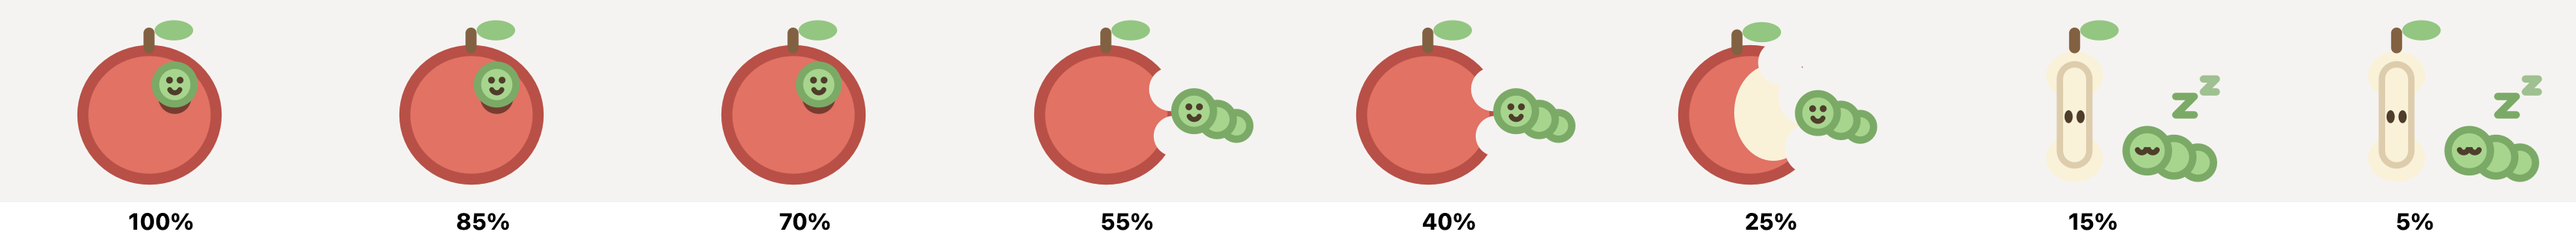
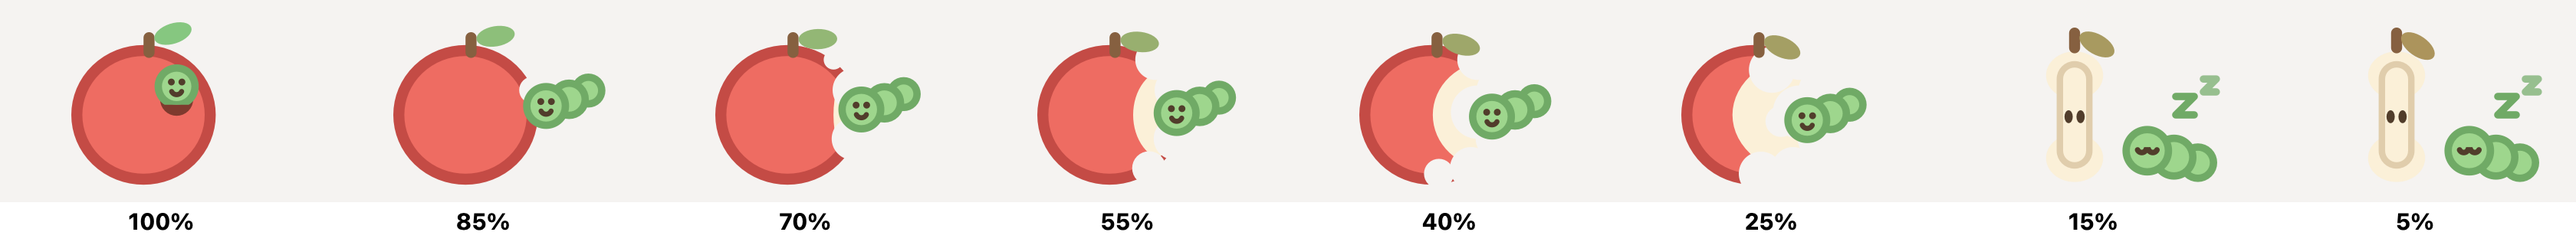
publish: 2026-09-04 기준 스냅샷

diff --git a/프로젝트/개인/Zappy/Zappy 개발 기록 2026-09-04.md b/프로젝트/개인/Zappy/Zappy 개발 기록 2026-09-04.md
@@ -1,0 +1,62 @@
+---
+type: worklog
+project: "[[프로젝트/개인/Zappy/README|Zappy]]"
+created: 2026-09-04
+updated: 2026-09-04
+---
+
+# Zappy 개발 기록 2026-09-04 — 기존 테마 4종 다듬기 (1.14.0)
+
+## 배경
+
+홍 "Zappy를 오랜만에 업데이트를 할까" → 위키·`asc state` 확인: **1.13.0은 이미 READY_FOR_SALE**(위키는 09-01 WAITING으로 멈춰 있었음 — 네 번째 반복: 제출 후 상태는 추측 말고 조회). 로드맵의 다음 항목은 할로윈 시즌 테마였으나 홍 "할로윈은 10월부터, 쪼금 기존거를 다듬고 싶어 — 날씨·선인장·사과·해파리. 굳이 표정 없어도 되는 건 없애고, 동작을 더 귀엽게·신박하게·선택하고 싶게". 네 테마 모두 Zappy+ 모션 테마라 "선택하고 싶게" = 전환 가치.
+
+## 결정
+
+### 얼굴은 캐릭터에만 — 소품·날씨엔 없다
+- **날씨**: 해·구름 둘 다 얼굴이 있어 캐릭터가 둘이었다. **얼굴은 해에만** 남기고 구름은 날씨(상태)로. 나무가 계절로 상태를 나르는 것과 같은 논리. 해는 늘 웃고, 시무룩함은 구름과 비가 맡는다.
+- **사과**: 이미 얼굴은 애벌레뿐 — 구조 유지.
+- **선인장**: 몸통이 초록 알약이라 얼굴 없으면 정체가 안 읽힘 — 유지.
+- **해파리**: 부양 높이·촉수·맥동·발광만으로 상태가 읽히는 유일한 테마라 실험 대상. 눈만 / 없음 / 기존 세 판을 렌더해 비교(`jellyFace` 전역 스위치) — **눈만 남긴 판을 채택**(홍 "알아서 해줘"). 얼굴 없는 판은 모노에서 버섯으로 읽혔다. 시들면 눈이 반쯤 감긴다(아래로 볼록한 호).
+
+### 사과 — "배터리를 쓰는 만큼 계속 갉아먹는다" (홍 요청: 단계를 더 늘려줘)
+- 90% 위: 온전한 사과, 구멍에서 **쏙 들어갔다 빼꼼**(4페이즈, 페이즈 0 = 나온 자세 — 정지 미리보기가 이 프레임). 클립 rect로 구멍 아래는 안 보인다.
+- 90%→20%: `AppleGeom.biteSlots` 8개가 순서대로 나타난다(자국 하나 = 8.75%). 마지막 자국은 잔량이 줄수록 커지고(0.45→1.0), **머리가 파고드는 박자에 0.8~1.0으로 벌어진다**("먹는 중"). 속살(cream)은 베어문 옆구리에서 안쪽으로 자라는 타원을 몸통에 클립해 그리고, 자국이 그 위를 뚫어 언저리에만 남는다.
+  - 처음엔 애벌레 머리를 마지막 자국 위치에 뒀는데 **윗자국(꼭지 옆)을 먹을 때 잎과 겹쳤다** → 머리는 오른쪽 옆구리에 붙어 `eaten`만큼 안쪽으로 파고드는 고정 궤적(`hx = 24.6 − 3.4·eaten`)으로.
+  - 처음엔 속살 타원을 알파로 페이드했더니 **안 베어문 껍질 위에 창백한 얼룩**으로 보였다 → 성장 타원 + 몸통 클립.
+- 입: 머리가 사과에 닿는 페이즈에 벌어진 타원, 나머지는 방긋(`mouthOpen`).
+- 20% 아래: 사과심 + 배부른 애벌레, zzz가 떠오르며 옅어진다(`shouldAnimate` 사과는 이제 잔량 무관 true).
+- 잎: 꼭지 밑동을 축으로 +18°→−38° 처지고 초록→갈색(`leafAngle`, `tiltedOval`).
+- **충전 씬이 아예 없었다** (홍 "사과일 때 충전 중일 때가 쪼금 아쉬운 것 같아" → 코드가 `charging`을 안 봄). 신설: **고치** — 사과 위 꼭지 왼쪽(잎은 오른쪽)에 세로 타원 + 실 두 줄 + 감은 눈, zzz 떠오름. **100% + 전원 = 나비**(분홍 날개 두 쌍, 반 주기마다 접었다 폄). 사과심 상태면 바닥 오른쪽. 충전 중 구멍은 안 그린다 — 빈 구멍만 남으면 검은 점으로 보였다. 첫 배치(y 17.8)는 캔버스 위에 닿아 17.0으로 내려 사과에 걸터앉게.
+
+### 날씨 — 구름이 잔량의 연속 함수로 해를 가린다 (`WeatherGeom`)
+- `cover = (0.95 − t)/0.70`, `approach = cover^1.5`(멀리선 천천히, 닿고 나서 빨리 — 40%에 오른쪽 눈 하나가 남는 배치). 100% 없음 → 85% 저 멀리 옅은 구름 한 점(`cloudAlpha`) → 55% 닿음 → 40% 눈 하나 → 25% 다 가림(`sunVisible = cover < 0.999`) → 20% 아래 비.
+- 구름을 어떻게 해보다 크게 만드나 — 세 번 시도: ① 캔버스 밖에서 밀고 들어오기 → **잘린 반쪽 구름**이 버그처럼 보임. ② 밑동을 두껍게(`belly`) → **컵케이크**. ③ 꼭대기 고정 세로 늘리기(`stretch`) → **탑**. 채택: **구름은 제 모양을 지키고(최대 1.3배) 해가 덮임 60%부터 5.6→4.2로 작아진다(멀어짐)**. 왼쪽 끝은 항상 캔버스 안(0.3+)에서 시작해 잘리지 않는다.
+- 상시 모션: 광선 회전(기존) + 구름 떠다님 ±0.35 + 빗줄기. `shouldAnimate` 날씨는 잔량 무관 true.
+- 충전: 먹구름 + **번개가 실제로 친다** — 페이즈 0·2에만 자리를 바꿔 그리고 1·3은 먹구름만(번쩍임). 충전 모션 예외에 등록. 1.6~1.13은 충전 정지 규칙 때문에 번개가 한 자리에 고정돼 있었다(홍 "번개가 친다던지"로 발견). 먹구름 뒤 오른쪽 위에 작은 해(r 3.3)가 빼꼼 — iconScale 1.1이라 광선 끝 ≤ 21 유지.
+- 모노: 구름 knockout 테두리(1.12배)를 먼저 뚫어 해·광선과 분리. 광선은 `rayAlpha`로 사그라든다.
+
+### 선인장 — 팔·벌·봉오리·물방울
+- `CactusGeom`에 `phase`·`charging` 추가(기본값 있는 `var` — `let`이면 memberwise init에서 빠져 컴파일 에러). 꽃 피면 `armWave`로 양팔이 엇갈려 살랑(±0.4), 벌은 `(27.0, 15.8)` 타원 궤도(4페이즈 = 한 바퀴) + 몸집 3.8×2.2·날개 2장·눈. 봉오리는 `bud`가 amp에 따라 0.6 부푼다. `shouldAnimate` ≥40.
+- 충전: 물뿌리개 물방울이 떨어진다 — 간격 2.6 = 페이즈 이동 0.65×4라 이음새 없이 순환. 충전 모션 예외 등록.
+
+### 해파리 — 실제 추진 리듬
+- 수축(`pulse`)하면 갓이 좁고 길어지며 `bellBottom`이 0.6 오르고, 이완하면 퍼지며 내려온다. 촉수는 `phaseAmp(phase + 1)`로 반박자 늦게 살랑이고 수축 때 6% 더 늘어진다. 발광은 수축에 맞춰 밝아진다(`glowAlpha`).
+- 꼭대기 한계: 만땅·수축에서 ≈21.5 — 처음 계수(8.8·0.9·1.09)로는 22.6이 되어 잘렸다 → 8.4·0.6·1.06.
+- 충전: 공기방울이 올라간다(간격 3.6 = 0.9×4). 충전 모션 예외 등록.
+
+## 검증
+- 렌더 하네스(스크래치에 `generate.swift` 축약 + **4페이즈 스트립** `phaseStrip`) → 눈으로 확인 → 수정 반복 6회. Xcode Debug 빌드 3회 성공(앱+위젯). `package-app.sh` 로컬 실행으로 메뉴바 표시 확인.
+- 테스트 인스턴스를 `-theme 사과 -forceLevel 60`으로 띄운 채 홍이 메뉴에서 테마를 골랐더니 안 바뀜 — argument domain이 저장 설정보다 우선. `-devFullAccess YES`만 붙여 재실행 → 정상. ([[작업노트/Apple/AppKit 오프스크린 렌더와 argument domain]] 09-04 항목)
+- `docs/theme-reference` 재생성: 생성기가 전 테마를 다시 쓰면 **손대지 않은 테마 파일도 바이트가 바뀐다**(PNG/GIF 인코더 노이즈) → 네 테마 + 새로 생긴 풍선 6장(빠져 있었음) + `apple-full-charging`만 남기고 `git checkout`. 충전 GIF는 날씨도 풍선처럼 4페이즈 순서대로.
+- 랜딩 카드 4장 재생성(420×264 투명, 85% 컬러). `lockFocus`는 Retina에서 840×528로 구워져 `NSBitmapImageRep`에 직접 그려 1x로.
+
+## 1.14.0 (build 24)
+- pbxproj 4곳 + `package-app.sh`. What's New 5개 언어(이모지 없음). 설명문 날씨 한 줄("잔량이 줄수록 구름이 해를 가려요") 5개 언어.
+- 커밋: `6cda9c7 feat: 사과 연속 갉아먹기·날씨 구름 가림(얼굴은 해에만)·선인장 팔 흔들기·해파리 추진 리듬, 1.14.0 (build 24)` · `45a171a feat: 충전 중 번개 번쩍임 + 애벌레 옴뇸뇸` · `e4a2b1b feat: 사과 충전 씬 — 고치에서 쿨쿨, 완충이면 나비`
+- 제출 결과: [[프로젝트/개인/Zappy/App Store 심사 이력|심사 이력]] 09-04 행.
+
+## 계획 표와의 관계
+계획는 Zappy를 "1.7.0으로 마무리, 버그 대응만"으로 두고 있고 09-02 회고가 "마무리 선언한 Zappy가 작업량 2위"라고 짚었다. 오늘 작업은 홍이 직접 고른 것이고 에이전트 주도 반나절이라 자투리 틀 안이지만, 표 문구와는 계속 어긋난다 — 표를 "시즌 테마 연 5회 + 홍이 고른 다듬기"로 고칠지는 홍의 결정으로 남긴다.
+
+배운 것: [[작업노트/Apple/AppKit 오프스크린 렌더와 argument domain|AppKit 오프스크린 렌더와 argument domain]] (1x 비트맵 렌더 · `-theme` 인자가 메뉴 선택을 덮음 · 레퍼런스 재생성 노이즈)

diff --git a/프로젝트/개인/한능검/AI 예상 모의고사 2026-09-04.md b/프로젝트/개인/한능검/AI 예상 모의고사 2026-09-04.md
@@ -22,7 +22,15 @@ updated: 2026-09-04
 - `Mock.tsx`: **앱 에디션·심화에서만** "제80회 AI 예상 · 2026.10.17" 섹션(예상 1~5회). 웹 체험판엔 안 보인다(유료 앱의 이유).
 - **리뷰 요청**: `src/review.ts` `noteGoodMoment()` — 모의고사 60점 이상 완주가 **두 번째** 쌓일 때, 버전당 1회, `SceneDelegate` `ReviewSink`(`hangeomReview` 핸들러)가 `AppStore.requestReview(in:)`(iOS 16+, 이전은 `SKStoreReviewController`). 틀린 문제 화면·온보딩에서는 안 부른다.
 
-## 진행
+## 진행 (2026-09-04, 착수 ~ 제출까지 약 13시간)
 
-- 09-04 01시: 슬롯·재료·검증기·SPEC 작성, 생성 에이전트 5개 착수. 앱 코드(Mock 섹션·리뷰 브리지·내보내기) 반영, `tsc` 통과.
-- (이하 생성·검증 결과는 완료 후 추가)
+- **생성**: 5세트 × 60문항(본 50 + 예비 10) = 300문항, skipped 0. 에이전트당 55~62만 토큰·25~28분. 기계 검증기가 기출 12자 복제를 세트당 25~30건씩 잡아 전부 재작성됐다.
+- **블라인드 풀이**: 5세트 × 60 = 300문항, 생성 정답과 **불일치 0**. 풀이자가 low로 표시한 2건이 실제 결함이었다 — 세트 1의 1번(청동기 문항에 "가락바퀴로 실을 뽑았다"가 한정어 없이 있어 정답이 둘) → 선지에 '시작' 추가, **세트 2의 22번(한산도 대첩 "이후" 문항에 정묘호란 1627 정봉수가 오답으로 들어가 정답이 둘)** → 삼포왜란·비변사(1510)로 교체. 그 외 풀이자 지적 3건은 표현 수정(세트 4의 7번 시무 10여 조 "받아들이지 않았다"→"시행되지 못하였다", 세트 5의 4번 대성동 고분 "금동관"→"철제 갑옷과 덩이쇠", 세트 1 spare-36 주어 중복).
+- **세트 간 중복**: 3-gram Jaccard로 잡힌 좌우 합작 44번(세트 2·4·5가 같은 김규식 인물 카드)과 통일 정책 49번(세트 1·2). 세트 4의 44번은 여운형 인물 카드, 세트 5의 44번은 "삼천만 동포에게 읍고함" 이후 사실로 **다시 써서** 재풀이(둘 다 high), 세트 2의 49·50번은 같은 주제 예비로 대체(50번은 세트 3과 교육기관 4개 비교 구조가 같아 수동 지정).
+- **내보내기**: 5세트 × 50문항, 배점 합 100, 시대 배열 단조, 정답 위치 세트당 ①~⑤ 각 9~12개(균형 셔플, 해설 원문자 재매핑, 연표형 고정), 강의 링크 47~49개/50. `web/public/data/predict-80-{1..5}.json`.
+- **홍 표본 검수 페이지**: 세트당 10문항·총 50문항(20%)을 정답·해설과 함께 — https://claude.ai/code/artifact/94020b5b-145e-4e1d-8951-5184192cf6a6 (문제 있음 체크 + 댓글). 제출과 병렬로 본다 — 결함이 나오면 2.2.1.
+- **앱**: Maestro 회귀 30장 통과(예상 모의고사 시작→풀이→채점 구간 추가). 2.2.0(build 10) 제출 — [[프로젝트/개인/한능검/App Store 심사 이력|심사 이력]].
+- **AI가 작성한 문항 5개를 내가 직접 읽은 표본(세트 3의 7·15·29·41·50, 세트 1의 5·39·50, 세트 4의 13·50, 세트 5의 21·38·42, 세트 2의 35)**: 사실·연대·오답 구성 모두 이상 없음.
+
+## 다음
+- 2.2.0 승인 → 홍 표본 검수 결과 반영(필요 시 2.2.1) → 블로그·커뮤니티 소재 "AI가 뽑은 제80회 예상 주제 TOP 10"(슬롯 통계 `data/predict/stats.json`의 시대별 상위 주제) → 10/17 시험 뒤 **적중률 대조**(실제 80회 문항의 topic vs 슬롯) → 소재 2탄.

diff --git a/프로젝트/개인/한능검/README.md b/프로젝트/개인/한능검/README.md
@@ -253,7 +253,7 @@ related_wiki:
 - **₩6,600 유료 전환**(선불, ASC 웹에서 직접 설정). 경쟁 동가 — 해설 품질 우위라 깎지 않음.
 - **트립와이어: 2026-09-17까지 판매 10건 미만이면 무료+잠금해제 IAP로 전환.** (09-03 홍: 전환 후 만 2주로 09-15 → 09-17 변경. 09-17 08:00 Slack `#70-밥벌이-재피` 예약 메시지 + Google 캘린더 알림으로 판정일 통지) 전환 시 기존 구매·설치자는 `AppTransaction.originalAppVersion`으로 자동 전체 해제(이중 과금 없음). IAP 작업 2~3일 — 9/17 판정 즉시 착수하면 시험(10/17) 3주 전 배포 가능.
 - > [!warning] **ASC 가격표 불일치 (2026-09-03 API 실측, 미결)** — `appPriceSchedules/6806144570`: 기준 지역이 **USA인데 USA 가격이 0.0(무료)**이고, 거기서 자동 산출되는 **42개 지역(GBR·DEU·FRA·ESP·ITA 등 유럽 전역 + RUS·TUR·UKR)도 전부 무료**다. 수동 가격 133개 지역만 유료(KOR ₩6,600 · JPN ¥600 · TWN NT$120 · CAN 4.99 · AUS 5.99…). 즉 **한국·아시아·미주 일부는 유료, 미국·유럽은 무료**로 팔리고 있다. 홍 결정 대기: 기준 지역 USA 가격을 ₩6,600 상당(US$4.99 티어)으로 올리면 42개 지역이 자동 정렬된다. 판매 리포트의 "무료 다운로드"에 USA·유럽 건이 섞일 수 있으니 국가 열을 봐야 한다.
-- **2.2.0 착수 (2026-09-04, 홍 결정)**: 리뷰 요청 + **AI 예상 모의고사 50문항×5회**(제80회 10/17 대비). 슬롯은 23회차 통계, 재료는 요약 노트+기출로 한정, 검증 3겹(기계·블라인드 풀이·홍 표본). 목표 9/20 전후 제출 — [[프로젝트/개인/한능검/AI 예상 모의고사 2026-09-04|AI 예상 모의고사]]
+- **2.2.0 제출 (2026-09-04, 홍 결정 당일)**: 리뷰 요청 + **AI 예상 모의고사 50문항×5회**(제80회 10/17 대비). 슬롯은 23회차 통계, 재료는 요약 노트+기출로 한정, 검증 3겹(기계·블라인드 풀이 300문항 불일치 0·홍 표본 50문항 페이지). 실제 결함 2건은 풀이자가 잡았다 — [[프로젝트/개인/한능검/AI 예상 모의고사 2026-09-04|AI 예상 모의고사]]
 - **2.1.0 출시 (2026-09-04 제출·당일 통과, READY_FOR_SALE)**: 홈 위젯 + iCloud 키-값 백업 + 학습 알림 + ASO 메타데이터 교체(이름 `한능검 정복 - 한국사 기출`). 상세 [[프로젝트/개인/한능검/App Store 심사 이력|심사 이력]]. 승인 뒤 "한국사" 검색 순위 재측정이 다음 할 일.
 - **ASC 분석 리포트 켬 (2026-09-04)**: 홍보 효과(노출→제품 페이지→다운로드)를 재려고 `analyticsReportRequests` `ONGOING`(`06f95385…`)·`ONE_TIME_SNAPSHOT`(`984465d4…`) 생성. 그 전엔 0건이라 데이터가 안 쌓이고 있었다([[작업노트/AppStore/App Store Connect 분석 리포트 API|분석 리포트 API]]). instances는 며칠 뒤부터.
 - **판매 알림 (2026-09-03 가동)**: 유료 앱은 구매 웹훅이 없어 **매일 07:00 KST Slack `#70-밥벌이-재피`에 전날(PT) 판매·환불·무료 다운로드 요약**이 온다. 코드는 Zappy 랜딩 Vercel 프로젝트(`zappy-landing`, `landing/api/hangeom-sales.js`, 커밋 `75c3b93`)에 동거. **아침에 메시지가 안 오면 그게 장애다.** 트립와이어(9/17 · 10건) 집계는 이 메시지 합산으로. 상세: [[작업노트/AppStore/유료 앱 판매 알림|유료 앱 판매 알림]]

diff --git a/작업노트/도구/LLM 콘텐츠 생산 파이프라인.md b/작업노트/도구/LLM 콘텐츠 생산 파이프라인.md
@@ -4,7 +4,7 @@ area: 도구
 audience: ai
 status: active
 created: 2026-09-01
-updated: 2026-09-01
+updated: 2026-09-04
 projects:
   - "[[프로젝트/개인/한능검/README|한능검]]"
 ---
@@ -21,6 +21,19 @@ projects:
 - **정답은 원전(답지)이 진실이다** — 에이전트가 "연대상 안 맞는다"고 하면 특정이 틀린 것부터 의심한다(61-29: (라)를 제왕운기로 잘못 특정 → 실제 발해고).
 
 ## 기록
+
+### 2026-09-04 — 새 문항 250개를 만들 때: 생성보다 검증, 검증 중에서도 블라인드 풀이가 결함을 잡았다
+- 맥락: [[프로젝트/개인/한능검/README|한능검]] 2.2.0 AI 예상 모의고사 5회분([[프로젝트/개인/한능검/AI 예상 모의고사 2026-09-04|기록]]). 기출 교정(원문이 있는 작업)과 달리 **정답이 없는 창작**이라 검증 구조를 새로 짰다.
+- 배운 것:
+  - **슬롯을 통계로 먼저 고정한다.** 번호별 시대·주제 빈도로 50슬롯을 만들어 주면 에이전트는 "무엇을"이 아니라 "어떻게"만 고민한다. 배점 합 100, 시대 안 연대순 같은 형식 제약도 슬롯 단계에서 끝낸다.
+  - **재료 한정 + 12자 복제 검사**는 이번에도 필수였다 — 세트당 25~30건이 기출 문장을 베꼈고 검사기가 전부 잡았다. 반면 재료에 있는 사실도 틀릴 수 있다(기출 해설이 "대성동 고분군 금동관"이라 써 놓음) — 풀이자가 잡았다.
+  - **블라인드 풀이(정답을 뗀 사본을 다른 에이전트가 푼다)가 유일하게 "정답이 둘"을 잡았다.** 300문항 중 정답 불일치는 0이었지만 low 확신 2건이 실제 결함(시기 조건을 만족하는 오답, 한정어 빠진 오답). 정답 일치율만 보면 놓친다 — **low·doubt 필드를 반드시 받아 읽는다.**
+  - **작성 에이전트는 정답 위치를 규칙적으로 놓는다**(세트 4는 ①→⑤ 순환, 다른 세트는 12개씩 딱 맞춤). 내보낼 때 균형 셔플 + 해설의 원문자 재매핑이 필요하고, 연표형((가)~(마))은 섞으면 안 된다.
+  - **병렬 에이전트는 같은 주제를 같은 자료 형식으로 쓴다**(세트 2·4·5가 똑같은 김규식 인물 카드). 3-gram Jaccard ≥0.4로 세트 간 중복을 걸러 예비로 대체하거나 다시 쓴다. 구조 중복(문장은 다르지만 같은 네 기관 비교)은 n-gram이 못 잡으니 자신 없는 문항 보고를 읽어야 한다.
+  - **판정을 손으로 고치면 재현이 깨진다.** verdict를 직접 pass로 바꿨더니 compare 재실행 때 되돌아가 엉뚱한 예비로 대체됐다. 수정은 원천(풀이 파일의 confidence·doubt)에 하고, 대체 규칙은 "같은 주제 예비만"으로 못 박는다.
+  - 병렬 에이전트가 **공용 스크래치패드의 스크립트 파일을 서로 덮어썼다** — 에이전트별 하위 폴더를 쓰게 하거나 파일명을 고유하게.
+- 근거: `(로컬 경로)`, `data/predict/{SPEC.md,slots.json,gen,solve,verdict}`. 결함 2건: set-1 slot 1, set-2 slot 22.
+
 
 ### 2026-09-01 — 한능검 2.0 해설 1,742문항 + 요약 노트 154 topic
 

diff --git a/프로젝트/개인/한능검/App Store 심사 이력.md b/프로젝트/개인/한능검/App Store 심사 이력.md
@@ -14,6 +14,12 @@ updated: 2026-09-04
 | Bundle ID | `com.hong.hangeom` |
 | 팀 | `WN2B884S76` |
 
+## 2.2.0 (build 10) — 2026-09-04 14:18 제출 → 중복 스크린샷 16장 정리 → **14:20 재제출 (WAITING_FOR_REVIEW)** — AI 예상 모의고사 5회 + 리뷰 요청
+
+- 내용: 제80회 AI 예상 모의고사 5회분(250문항, `predict-80-N.json`, 앱 에디션·심화 전용) + 스토어 리뷰 요청 브리지(`hangeomReview`, 60점+ 완주 2회째, 버전당 1회). What's New ko/en-US. 상세: [[프로젝트/개인/한능검/AI 예상 모의고사 2026-09-04|AI 예상 모의고사]].
+- 검증: Maestro 회귀 30장(예상 모의고사 구간 추가) 통과. 2.1.0에서 배운 대로 버전 네 곳(pbxproj·Fastfile 3곳·`APP_VERSION`) 동시 갱신, `resubmit` 기본 빌드 10.
+- 밟은 지뢰: ① `src/review.ts`를 만들자 기존 `Review.tsx`(오답노트)와 **대소문자만 다른 파일명**이라 Vite 빌드가 실패(macOS 대소문자 무시 FS) → `storeReview.ts`로 개명. ② Maestro `visible: "예상 1회"`가 실패 — 행 라벨은 제목+부제가 이어 붙으므로 `"예상 1회.*"` 정규식이어야 한다(기존 `무작위 50문항.*`과 같은 규칙). ③ 스크린샷 이중 업로드 재발(4세트 전부 10장) → cancel → dedupe → resubmit(표준 절차).
+
 ## 2.1.0 (build 9) — 2026-09-04 02:17 제출 → **당일 통과·출시 (READY_FOR_SALE, 홍 확인)** — 위젯·iCloud 백업·학습 알림 + ASO 메타데이터 교체
 
 2.0.2 승인(09-04 새벽) 직후. 원래 "2.0.3 메타데이터만"이었으나 소스에 09-03 15:13~15:29 작업(위젯·iCloud KV·알림)이 이미 들어 있고 되돌릴 스냅샷이 없어 **홍 결정(09-04)으로 2.1.0에 함께 실었다.**
